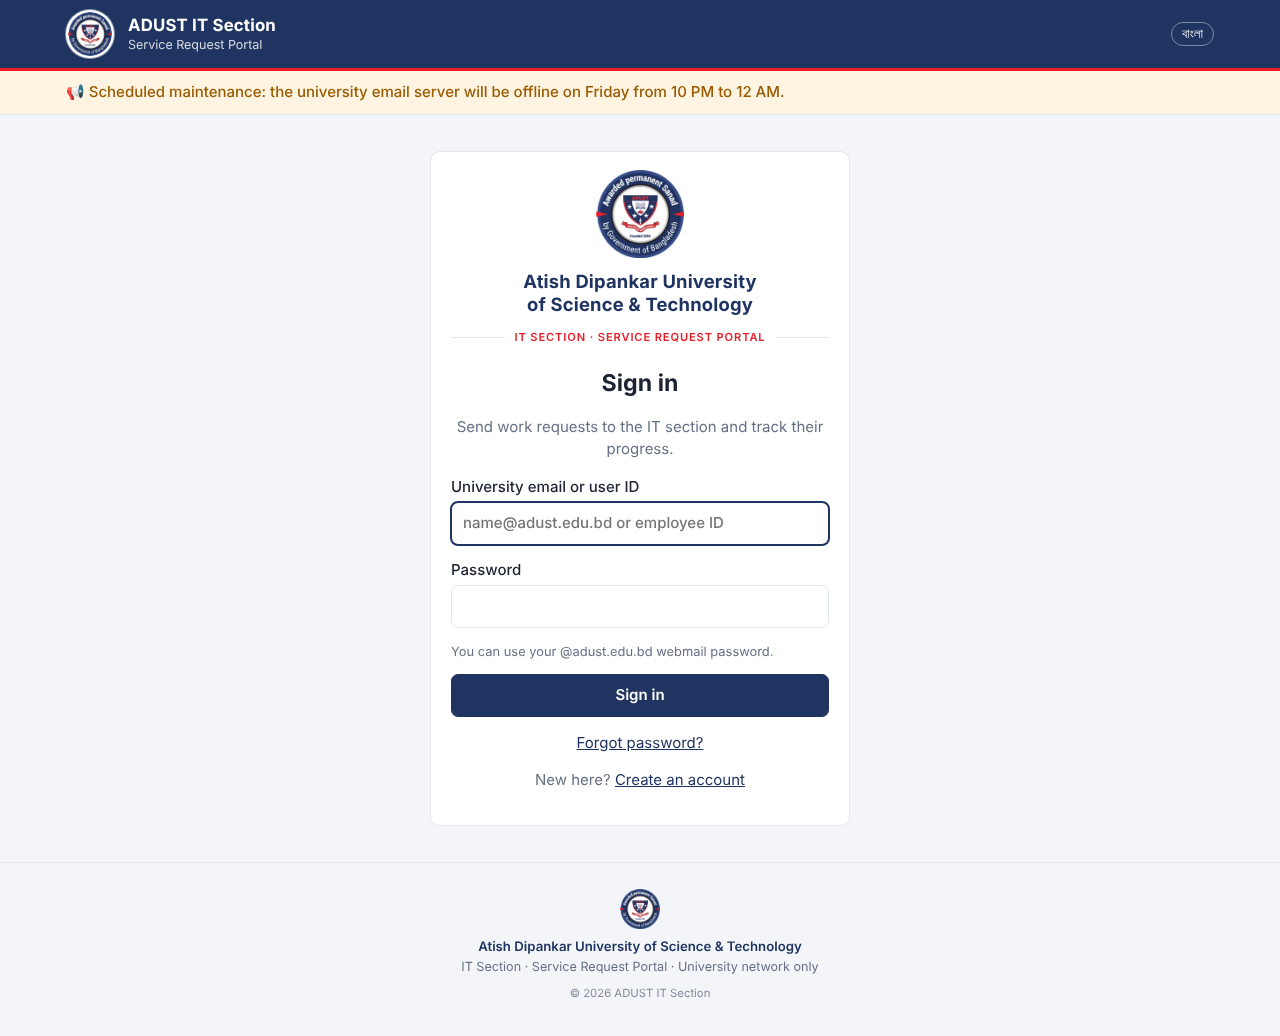
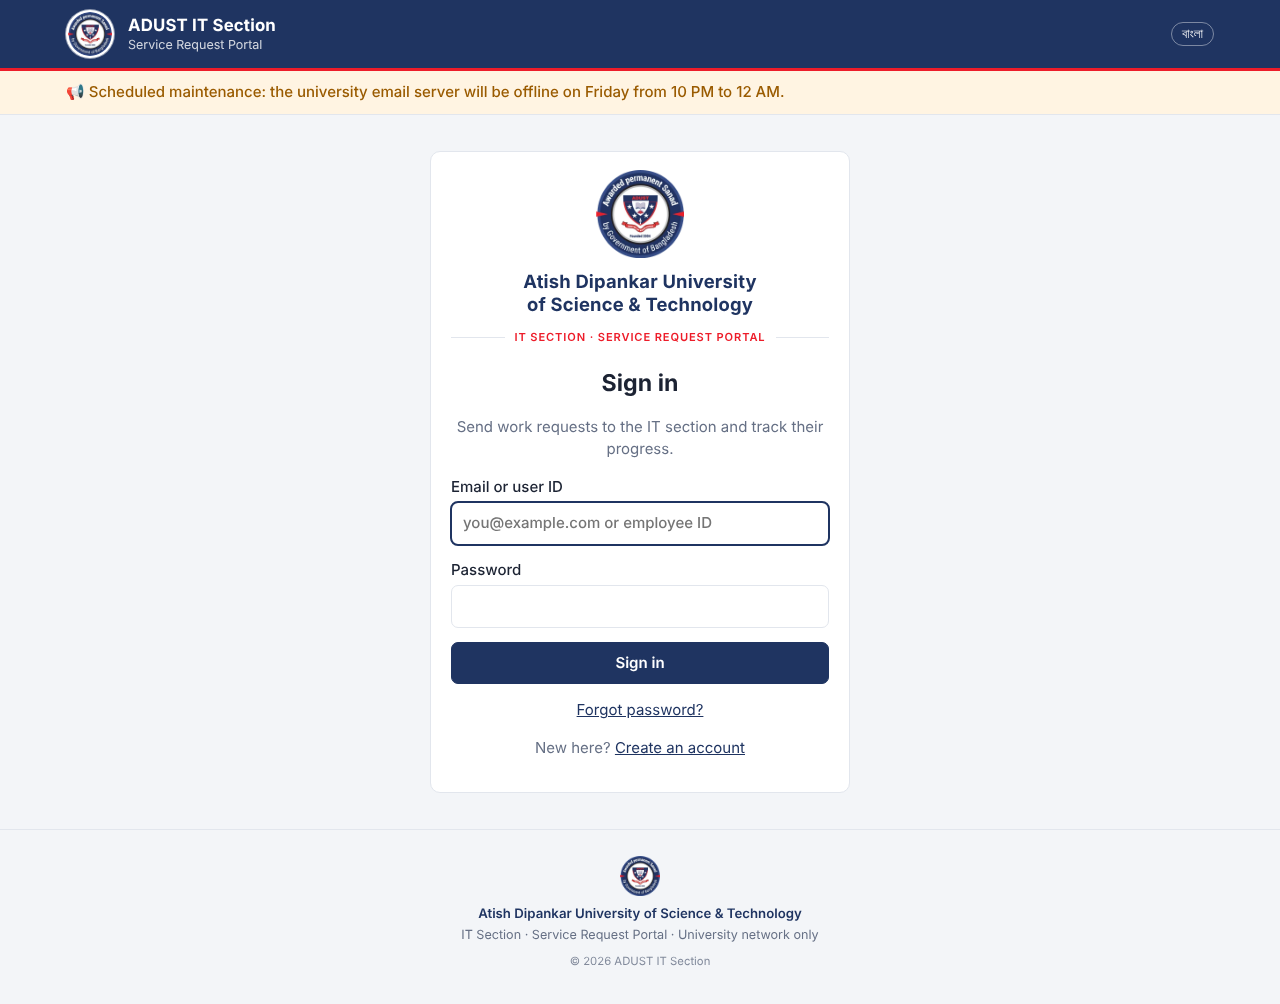
Allow any email address to register; webmail sign-in off by default
Registration and sign-in now accept personal or institutional email
addresses (format-checked); access stays limited to university networks.
PORTAL_ALLOWED_EMAIL_DOMAINS can restrict domains again. The webmail
(IMAP) sign-in code is kept but disabled in the env template.

Claude-Session: https://claude.ai/code/session_01EB5ad8Y4nycXoiEcyB24w6

diff --git a/templates/register.html b/templates/register.html
@@ -3,10 +3,11 @@
 <div class="auth card wide">
   {% include "_auth_head.html" %}
   <h1 class="center">{{ _('Create an account') }}</h1>
+  <p class="muted center">{{ _('Use any email address you check regularly; updates about your requests are sent there.') }}</p>
   <form method="post" class="grid">
     <input type="hidden" name="csrf_token" value="{{ csrf_token() }}">
     <label>{{ _('Full name') }} * <input name="name" required value="{{ request.form.name }}"></label>
-    <label>{{ _('University email') }} * <input type="email" name="email" required placeholder="name@{{ domain }}" value="{{ request.form.email }}"></label>
+    <label>{{ _('Email') }} * <input type="email" name="email" required placeholder="{{ '@' ~ domains|join(', @') if domains else 'you@example.com' }}" value="{{ request.form.email }}"></label>
     <label>{{ _('User ID / Employee ID') }} <input name="login_id" value="{{ request.form.login_id }}"></label>
     <label>{{ _('Mobile') }} <input name="phone" placeholder="01XXXXXXXXX" value="{{ request.form.phone }}"></label>
     <label>{{ _('Department / Office') }} * {{ dept_select('department', request.form.department) }}</label>

diff --git a/templates/login.html b/templates/login.html
@@ -6,8 +6,8 @@
   <p class="muted center">{{ _('Send work requests to the IT section and track their progress.') }}</p>
   <form method="post">
     <input type="hidden" name="csrf_token" value="{{ csrf_token() }}">
-    <label>{{ _('University email or user ID') }}
-      <input name="identifier" required autofocus autocomplete="username" placeholder="name@{{ domain }} {{ _('or employee ID') }}" value="{{ request.form.identifier }}"></label>
+    <label>{{ _('Email or user ID') }}
+      <input name="identifier" required autofocus autocomplete="username" placeholder="you@example.com {{ _('or employee ID') }}" value="{{ request.form.identifier }}"></label>
     <label>{{ _('Password') }} <input type="password" name="password" required autocomplete="current-password"></label>
     {% if webmail %}<p class="hint">{{ _('You can use your @{domain} webmail password.', domain=domain) }}</p>{% endif %}
     <button class="btn primary full">{{ _('Sign in') }}</button>

diff --git a/templates/forgot.html b/templates/forgot.html
@@ -6,7 +6,7 @@
   <p class="muted center">{{ _('Enter your email or user ID. We will email you a link to set a new password.') }}</p>
   <form method="post">
     <input type="hidden" name="csrf_token" value="{{ csrf_token() }}">
-    <label>{{ _('University email or user ID') }} <input name="identifier" required autofocus></label>
+    <label>{{ _('Email or user ID') }} <input name="identifier" required autofocus></label>
     <button class="btn primary full">{{ _('Send reset link') }}</button>
   </form>
   <p class="center"><a href="{{ url_for('login') }}">← {{ _('Back to sign in') }}</a></p>

diff --git a/app.py b/app.py
@@ -122,6 +122,10 @@ app.config.update(
     SESSION_COOKIE_SECURE=env("PORTAL_HTTPS") == "1",
     PERMANENT_SESSION_LIFETIME=timedelta(hours=12),
     EMAIL_DOMAIN=env("PORTAL_EMAIL_DOMAIN", "adust.edu.bd").lower(),
+    # Empty = any email address (personal or institutional) may register;
+    # access is still limited to the university networks.
+    ALLOWED_EMAIL_DOMAINS=[d.strip().lower().lstrip("@") for d in env("PORTAL_ALLOWED_EMAIL_DOMAINS", "").split(",")
+                           if d.strip()],
     BASE_URL=env("PORTAL_BASE_URL", "").rstrip("/"),
     AUTO_HOUSEKEEPING=env("PORTAL_AUTO_HOUSEKEEPING", "1") == "1",
 )
@@ -691,6 +695,14 @@ def in_university_domain(email):
     return email.endswith("@" + app.config["EMAIL_DOMAIN"])
 
 
+EMAIL_RE = re.compile(r"^[^@\s]+@[^@\s]+\.[^@\s]+$")
+
+
+def email_allowed(email):
+    domains = app.config["ALLOWED_EMAIL_DOMAINS"]
+    return not domains or any(email.endswith("@" + d) for d in domains)
+
+
 def locked_out(ident):
     since = now(timedelta(minutes=-LOCKOUT_MINUTES))
     db = get_db()
@@ -770,8 +782,11 @@ def register():
         error = None
         if not all(form.get(k, "").strip() for k in ("name", "email", "department")):
             error = _("Name, email and department are required.")
-        elif not in_university_domain(email):
-            error = _("Please use your university email (@{domain}).", domain=app.config["EMAIL_DOMAIN"])
+        elif not EMAIL_RE.match(email):
+            error = _("Please enter a valid email address.")
+        elif not email_allowed(email):
+            error = _("Please use an email address from: {domains}",
+                      domains=", ".join("@" + d for d in app.config["ALLOWED_EMAIL_DOMAINS"]))
         elif len(form.get("password", "")) < 8:
             error = _("Password must be at least 8 characters.")
         elif form.get("password") != form.get("confirm"):
@@ -791,7 +806,7 @@ def register():
             except sqlite3.IntegrityError:
                 error = _("An account with that email or user ID already exists.")
         flash(error, "error")
-    return render_template("register.html", domain=app.config["EMAIL_DOMAIN"])
+    return render_template("register.html", domains=app.config["ALLOWED_EMAIL_DOMAINS"])
 
 
 def reset_serializer():
@@ -1792,7 +1807,7 @@ def admin_users():
         uid = f.get("id", "")
         role = f.get("role", "user")
         email = f.get("email", "").strip().lower()
-        if role not in ROLES or not f.get("name", "").strip() or not email:
+        if role not in ROLES or not f.get("name", "").strip() or not EMAIL_RE.match(email):
             flash(_("Name, email and a valid role are required."), "error")
             return redirect(url_for("admin_users"))
         fields = (f.get("login_id", "").strip().lower() or None, f["name"].strip(), email,

diff --git a/i18n.py b/i18n.py
@@ -210,6 +210,10 @@ BN = {
     "Sign in": "সাইন ইন",
     "Send work requests to the IT section and track their progress.": "আইটি সেকশনে কাজের অনুরোধ পাঠান এবং অগ্রগতি দেখুন।",
     "University email or user ID": "বিশ্ববিদ্যালয়ের ইমেইল বা ইউজার আইডি",
+    "Email or user ID": "ইমেইল বা ইউজার আইডি",
+    "Use any email address you check regularly; updates about your requests are sent there.": "যে ইমেইল আপনি নিয়মিত দেখেন সেটি দিন; আপনার অনুরোধের আপডেট সেখানে পাঠানো হবে।",
+    "Please enter a valid email address.": "সঠিক ইমেইল ঠিকানা দিন।",
+    "Please use an email address from: {domains}": "এই ডোমেইনের ইমেইল ব্যবহার করুন: {domains}",
     "or employee ID": "অথবা কর্মচারী আইডি",
     "Password": "পাসওয়ার্ড",
     "You can use your @{domain} webmail password.": "আপনার @{domain} ওয়েবমেইলের পাসওয়ার্ডও ব্যবহার করতে পারেন।",

diff --git a/tests/smoke_test.py b/tests/smoke_test.py
@@ -46,6 +46,16 @@ u = client()
 ok(post(u, "/register", {"name": "Mim Akter", "email": "mim@adust.edu.bd", "department": "Computer Science & Engineering (CSE)", "phone": "01811000000", "password": "secret123", "confirm": "secret123"}), "Account created")
 ok(login(u, "mim@adust.edu.bd", "secret123"), "Welcome, Mim")
 
+# ---------- any email (personal or institutional) can register and sign in
+g = client()
+ok(post(g, "/register", {"name": "Personal Mail", "email": "someone.personal@gmail.com", "department": "Library", "password": "secret123", "confirm": "secret123"}), "Account created")
+ok(login(g, "someone.personal@gmail.com", "secret123"), "Welcome, Personal")
+ok(post(client(), "/register", {"name": "Bad", "email": "not-an-email", "department": "Library", "password": "secret123", "confirm": "secret123"}), "valid email")
+app.config["ALLOWED_EMAIL_DOMAINS"] = ["adust.edu.bd"]
+ok(post(client(), "/register", {"name": "Y", "email": "y@yahoo.com", "department": "Library", "password": "secret123", "confirm": "secret123"}), "@adust.edu.bd")
+app.config["ALLOWED_EMAIL_DOMAINS"] = []
+print("any-email ok")
+
 # ---------- 1. lock-out after 5 failures
 x = client("10.20.0.77")
 for i in range(5): login(x, "mim@adust.edu.bd", "wrong")

diff --git a/README.md b/README.md
@@ -11,7 +11,7 @@ works in **English and Bangla**, and runs on a single small server (Python + SQL
 | Area | What it does |
 |---|---|
 | **University network only** | Only allowed IPs/ranges can open the site; others see "Access restricted". Managed in *Admin → Network access*. Admin cannot lock themselves out. |
-| **Sign-in** | University email **or** user ID + password, or the **@adust.edu.bd webmail password** (IMAP; first login creates the account). **Forgot password** by email link (1 hour, single use). **Lock-out** after 5 wrong passwords (15 min). |
+| **Sign-in** | **Any email** (institutional or personal, e.g. Gmail) **or** user ID + password. Anyone on the university network can register; set `PORTAL_ALLOWED_EMAIL_DOMAINS` to limit domains. **Forgot password** by email link (1 hour, single use). **Lock-out** after 5 wrong passwords (15 min). *Optional, off by default:* sign in with the university webmail password (IMAP). |
 | **Assign work to IT** | Category, priority 1–10, urgent flag, needed-by date, which IT staff, location, **device (asset tag)**, description, remarks, attachment. Code like `IT-2026-0001`. Matching **help articles are suggested** while filling the form. |
 | **Department-head approval** | Categories marked "needs approval" (e.g. *New equipment / Purchase*) go first to the requester's department head, who approves or rejects with a reason. |
 | **IT workflow** | Queue sorted by urgency → priority → deadline. Status, reassign, priority, device, replies, attachments, **internal IT notes**. **Printable job card** with signature lines. |
